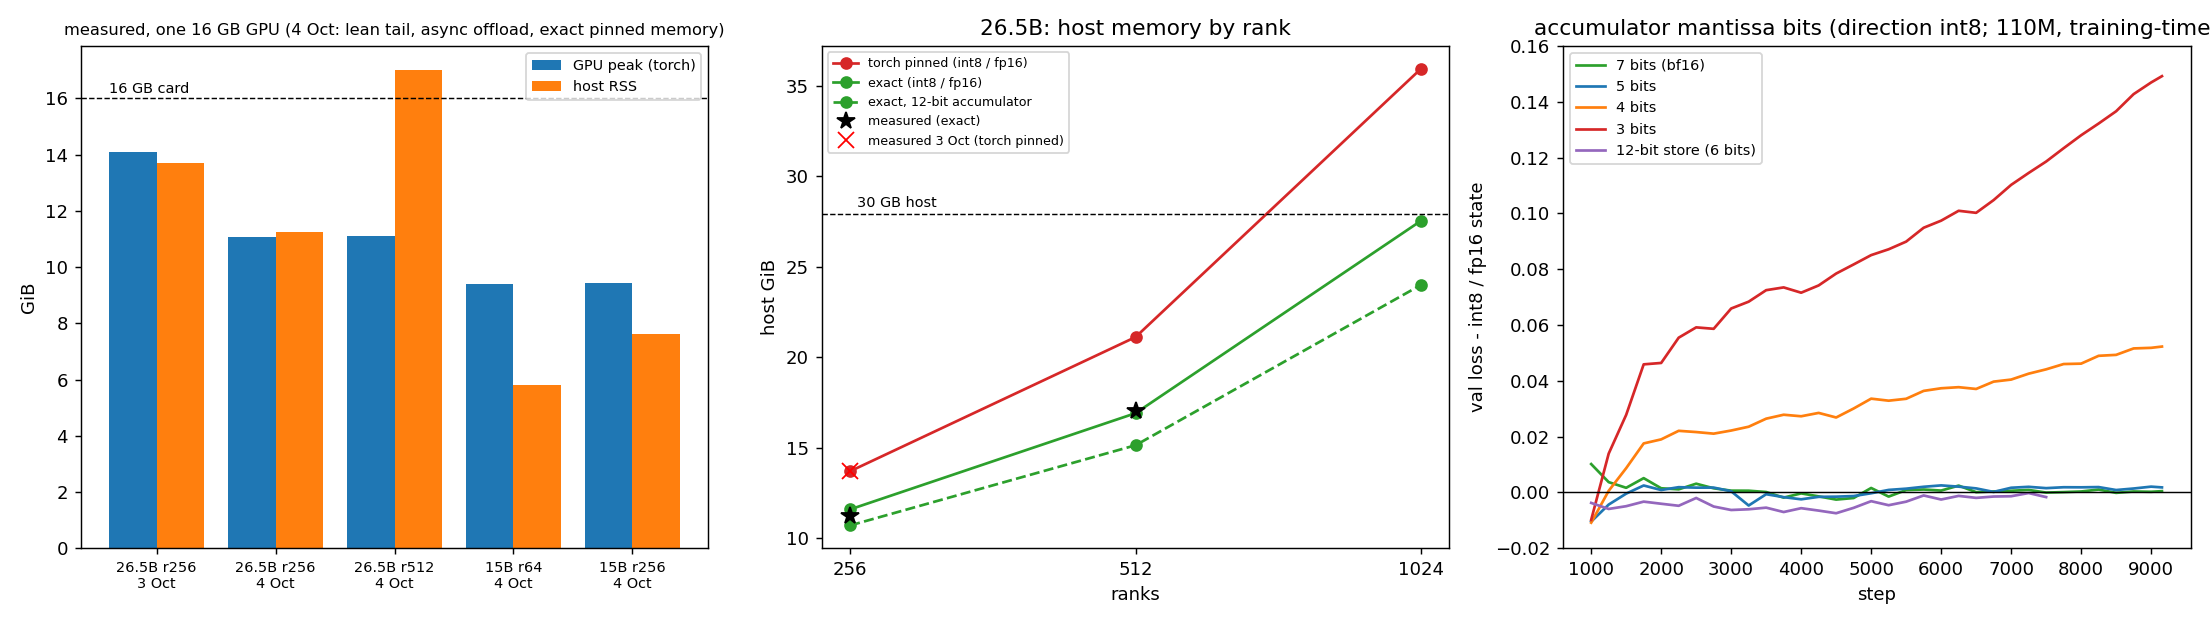
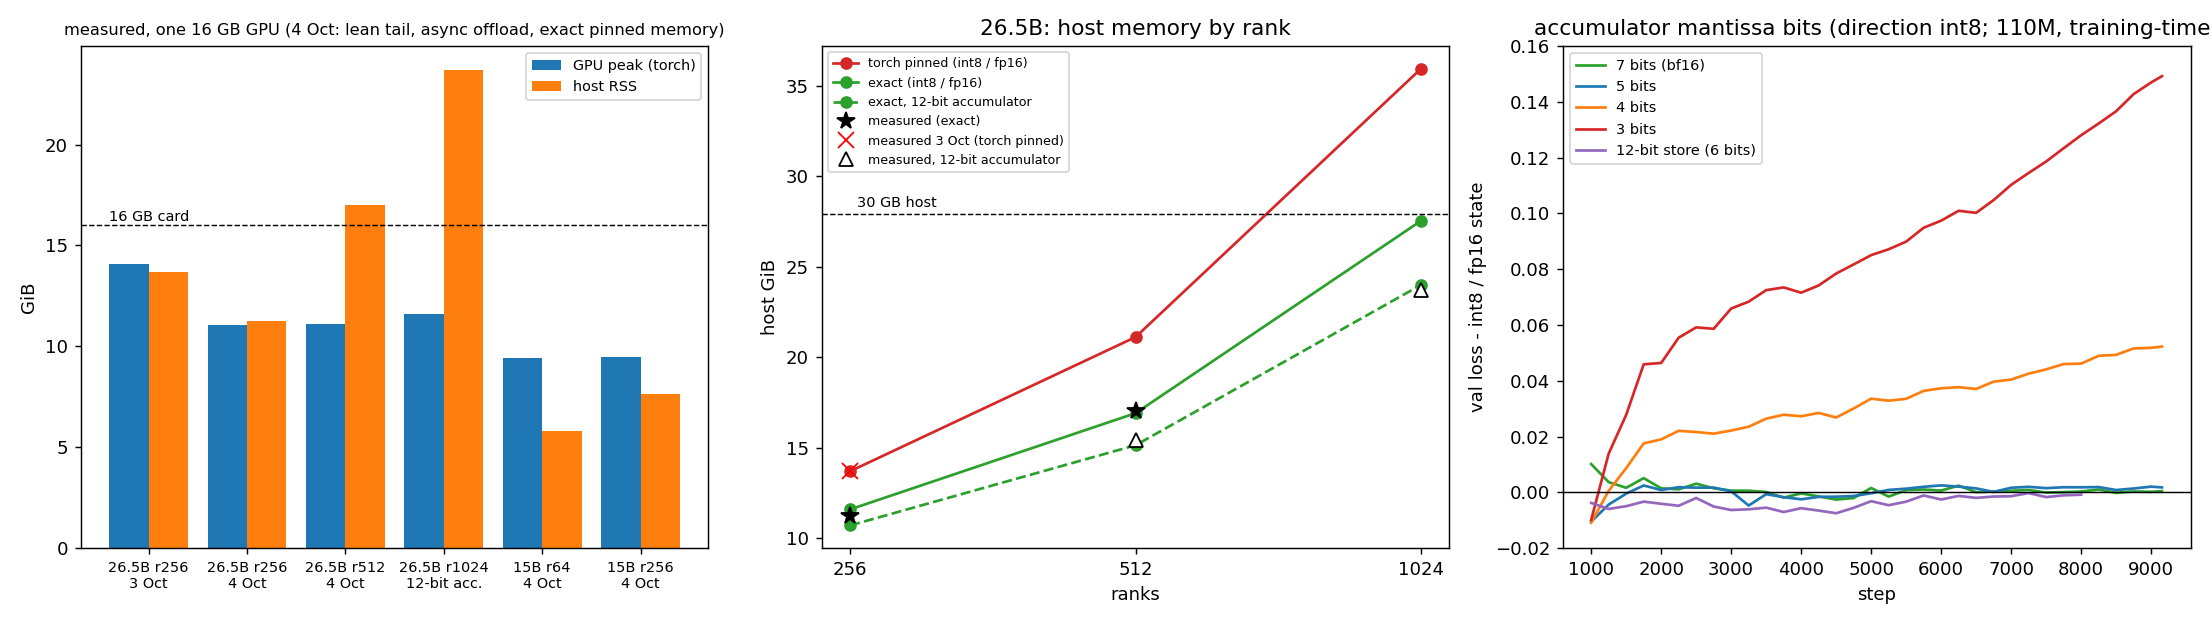
340M caveat (master at lr 1e-3 level with TTF at 4000); figures

Changed region(s): [[0.0312, 0.0913, 0.3122, 0.9439], [0.3747, 0.2436, 0.4995, 0.3045], [0.4995, 0.7003, 0.5308, 0.7308]]

diff --git a/scripts/plots/plot_oct4.py b/scripts/plots/plot_oct4.py
@@ -139,7 +139,7 @@ def memory_fig():
     # (a) measured on one RTX 4070 Ti Super 16 GB, micro-batch 1 x 2048 (RUNS.md 3 Oct 07:20, 4 Oct 06:40 / 07:40):
     # torch peak GiB, host max RSS GiB
     meas = [("26.5B r256\n3 Oct", 14.10, 13.7), ("26.5B r256\n4 Oct", 11.08, 11795760 / 2**20),
-            ("26.5B r512\n4 Oct", 11.12, 17843912 / 2**20), ("15B r64\n4 Oct", 9.40, 6102528 / 2**20), ("15B r256\n4 Oct", 9.45, 7992312 / 2**20)]
+            ("26.5B r512\n4 Oct", 11.12, 17843912 / 2**20), ("26.5B r1024\n12-bit acc.", 11.61, 23.7), ("15B r64\n4 Oct", 9.40, 6102528 / 2**20), ("15B r256\n4 Oct", 9.45, 7992312 / 2**20)]
     x = np.arange(len(meas))
     ax[0].bar(x - 0.2, [m[1] for m in meas], 0.4, color="tab:blue", label="GPU peak (torch)")
     ax[0].bar(x + 0.2, [m[2] or 0 for m in meas], 0.4, color="tab:orange", label="host RSS")
@@ -155,6 +155,7 @@ def memory_fig():
     ax[1].plot(rk, [M["state_gib"](r, r, 1, 1.5) + M["host_base"] for r in rk], "o--", color="tab:green", label="exact, 12-bit accumulator")
     ax[1].plot([256, 512], [11795760 / 2**20, 17843912 / 2**20], "k*", ms=10, label="measured (exact)")
     ax[1].plot([256], [13.7], "rx", ms=9, label="measured 3 Oct (torch pinned)")
+    ax[1].plot([512, 1024], [15.4, 23.7], "k^", ms=8, mfc="white", label="measured, 12-bit accumulator")
     ax[1].axhline(30 / 1.074, color="k", lw=0.8, ls="--"); ax[1].text(260, 28.3, "30 GB host", fontsize=8)
     ax[1].set_xscale("log", base=2); ax[1].set_xticks(rk); ax[1].set_xticklabels(rk)
     ax[1].set_xlabel("ranks"); ax[1].set_ylabel("host GiB"); ax[1].set_title("26.5B: host memory by rank"); ax[1].legend(fontsize=7)

diff --git a/README.md b/README.md
@@ -33,7 +33,7 @@ within 6e-5. FineWeb-Edu was never used for any choice.
 - **340M** (fixed windows, one seed each, seed 2 running): TTF 2.5774 vs master + the same float extras 2.6061
   (−0.029 [−0.030, −0.027]) and master 2.6461; FineWeb-Edu 3.5251 vs 3.5654 / 3.6167. With the older step scaling
   (p = 1) TTF was level with master + extras. Master's learning rate was tuned at 110M; at 340M lr 1e-3 is better
-  mid-run (TTF's lead at step 3250 0.025 instead of 0.058), and its final decides this comparison.
+  mid-run (level with TTF at step 4000), and its final decides this comparison.
 - **FineWeb-Edu, 600M tokens** (110M): TTF 3.0861 vs master 3.1508.
 - **Zero-shot at 110M:** LAMBADA 0.135 vs 0.123 for master + extras. The multiple-choice tasks are at chance at this
   scale.
